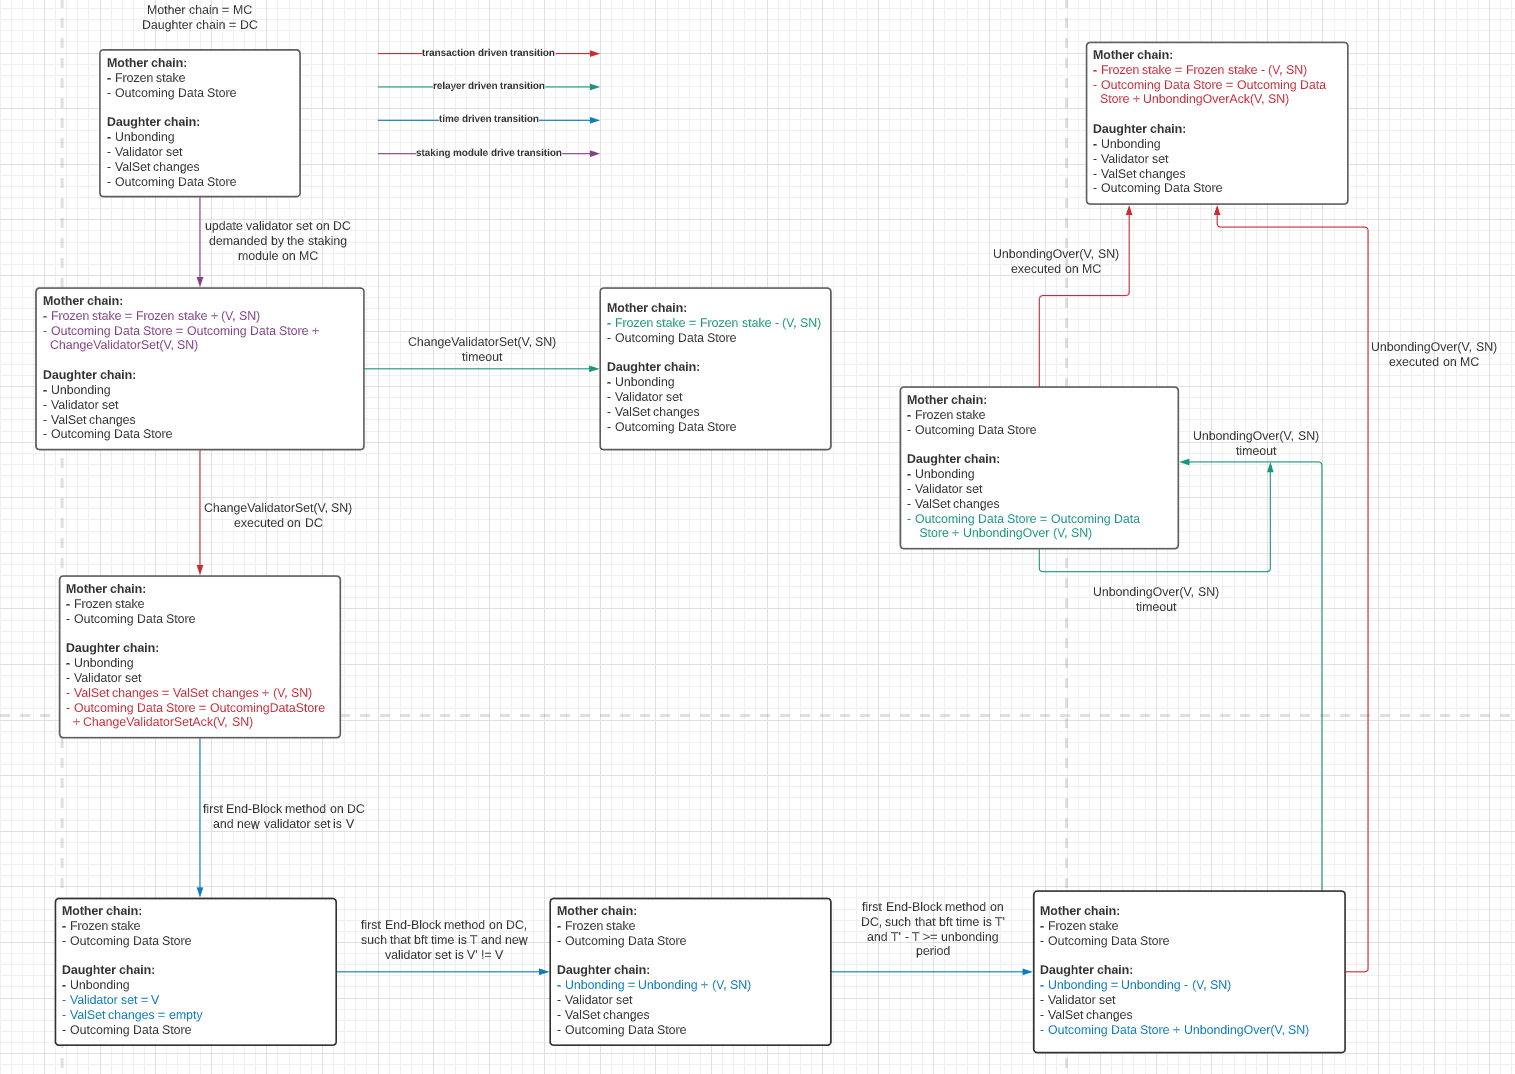
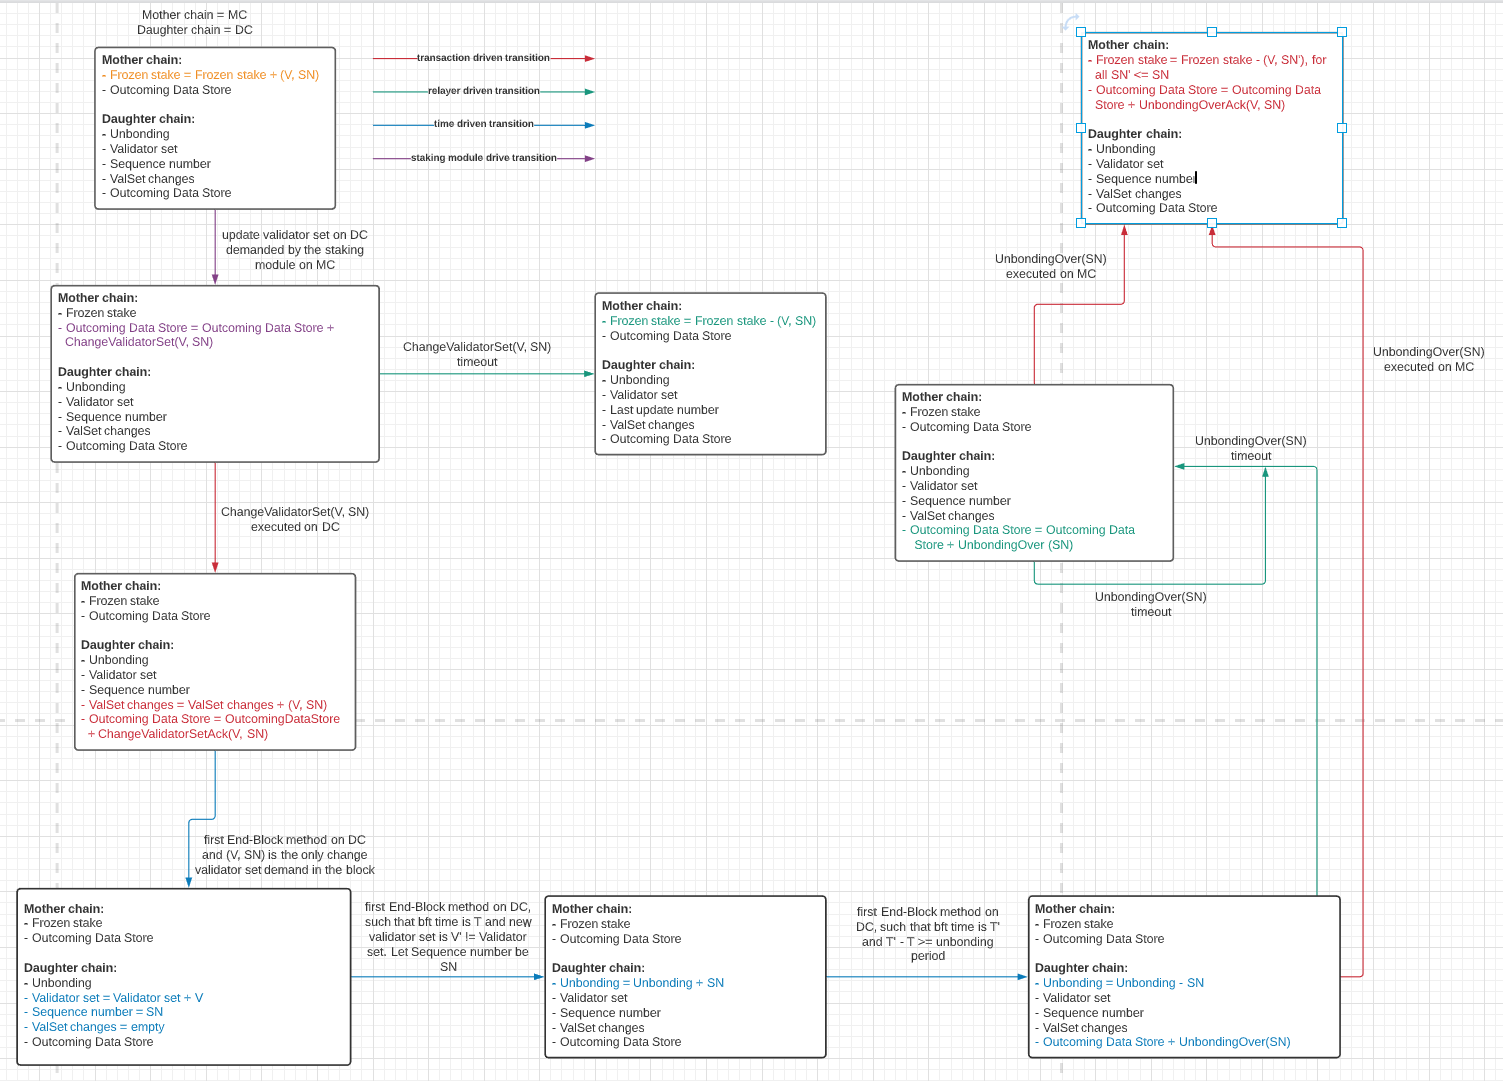
updates as an input from the staking module

diff --git a/spec/valset-update-protocol.md b/spec/valset-update-protocol.md
@@ -18,13 +18,12 @@ This subsection is devoted to defining properties that the Cross-Chain Validatio
 Recall that the parent blockchain has an ability to demand a change to the validator set of the baby chain.
 Moreover, we want to ensure the stake of validators of the baby blockchain are "frozen" at the parent chain.
 
-A change validator set demand is a tuple *(V, SN)*, where *V* represent a validator set and *SN* a sequence number of the demand.
+A change validator set demand is a tuple *(V, SN)*, where *V* represent a validator set updates and *SN* a sequence number of the demand.
 If a change validator set demand *(V', SN')* is issued after a validator set demand *(V, SN)* by the staking module of the parent blockchain, then *SN' > SN*.
 
 Hence, we aim to achieve the following properties:
-- *Liveness*: If the staking module of the parent blockchain demands a validator set change *(V, SN)* for the baby chain and this demand is successfully relayed to the baby blockchain, then the validator set of the baby blockchain is eventually set to *(V, SN* or to *(V', SN')*, where *SN' > SN*.
-- *Validator set change safety*: Suppose that the validator set of the baby blockchain is updated to a validator set *V* *n* times.
-Then, there exists a sequence *(V, SN(1)), (V, SN(2)), ..., (V, SN(n))* of change validator set demands issued by the staking module of the parent blockchain such that *SN(i) < SN(i+1)*.
+- *Liveness*: If the staking module of the parent blockchain demands a validator set change *(V, SN)* for the baby chain and this demand is successfully relayed to the baby blockchain, then the validator set of the baby blockchain reflects this demand.
+- *Validator set change safety*: Suppose that the validator set of the baby blockchain changes from *V* to *V'*. Then, there exists a sequence *seq = (V, SN(1)), (V, SN(2)), ..., (V, SN(n))*, where *n > 0*, of change validator set demands issued by the staking module of the parent blockchain such that *apply(V, seq) = V'*.
 - *Stake safety*: If a validator *v* belongs to a validator set of the baby blockchain, then the stake of *v* is frozen at the parent blockchain. Moreover, if the stake of *v* is unfrozen at the parent blockchain, the unbonding period has elapsed for *v* at the baby blockchain.
 - *Stake liveness*: If the stake of a validator *v* is bonded at the parent blockchain and the staking module of the parent blockchain demands a change to the validator set of the baby blockchain that does not contain *v*, eventually the stake of *v* is unbonded (although some stake might be slashed).
 
@@ -35,8 +34,7 @@ An IBC channel assumes two parties (the respective blockchains) involved in the 
 A relayer intermediates communication between the two blockchains. Each blockchain exposes an API comprising read, write, as well as a queue (FIFO) functionality. So there are two parts to the communication API:
 
 - a read/write store: The read/write store holds the entire state of the chain. Each module can write to this store.
-- a queue of datagrams (packets):
-Each module can pop datagrams stored in this queue and a relayer can push to this queue.
+- a queue of datagrams (packets): Each module can dequeue datagrams stored in this queue and a relayer can queue to this queue.
 
 ## Data Structures
 
@@ -53,7 +51,8 @@ We devote this section to defining the data structures used to represent the sta
 
 - Unbonding: Keeps track of validators that are currently unbonding.
 - Validator set: The validator set of the baby blockchain.
-- ValSet changes: Keeps track of all demands of the parent blockchain for a change of the validator set of the baby blockchain in a **current** block.
+- Sequence number: The sequence number of the **last** change validator set demand that influenced the current validator set of the baby blockchain.
+- ValSet changes: Keeps track of all demands of the parent blockchain for a change of the validator set of the baby blockchain in a current block.
 - Outcoming data store: "Part" of the blockchain used for storing the packets that should be relayed to the parent blockchain (same as at the parent blockchain).
 
 ### Packet data
@@ -61,13 +60,13 @@ We devote this section to defining the data structures used to represent the sta
 #### Sent by the parent blockchain
 
 - ChangeValidatorSet(validatorSet, seqNum): Packet sent by the parent blockchain to the baby blockchain to express the demand of the parent blockchain to modify the validator set of the baby blockchain.
-"New" validator set is defined in the *validatorSet* parameter, whereas the *seqNum* represents the unique identifier of the demand.
+Validator set modifications are defined in the *valSetUpdate* parameter, whereas the *seqNum* represents the unique identifier of the demand.
 
   *Remark:* There exists the acknowledgment packet for the ChangeValidatorSet packet. However, currently the acknowledgment packet does not influence any state transitions (as we introduce in the rest of the document).
 
 #### Sent by the baby blockchain
 
-- UnbondingOver(validatorSet, seqNum): Packet sent by the baby blockchain to signalize that the unbonding period has elapsed at the baby blockchain for every validator that is demanded in the *ChangeValidatorSet* packet with sequence number *seqNum*.
+- UnbondingOver(seqNums): Packet sent by the baby blockchain to signalize that the unbonding period has elapsed at the baby blockchain for every validator that is demanded in the *ChangeValidatorSet* packets with sequence numbers less than or equal to *seqNum*.
 
   *Remark:* There exists the acknowledgment packet for the UnbondingOver packet. However, currently the acknowledgment packet does not influence any state transitions (as we introduce in the rest of the document).
 
@@ -82,22 +81,22 @@ We observe state transitions that are driven by an user, driven by the relayer a
 
   - Transaction-driven state transitions: These are the state transitions that are driven by the relayer. Namely, these transitions are activated since communication between the two blockchains takes place. E.g., some packet is received via the IBC communication, a timeout has elapsed for a packet, acknowledgment for a packet is received.
 
-  - Time-driven state transitions: These transitions are activated since some time has elapsed. As we will present in the rest of the document, time-driven state transitions help us determine when the unbonding period, measured at the baby blockchain, has elapsed for a validator.
+  - Time-driven state transitions: These transitions are activated since some time has elapsed. As we will present in the rest of the document, time-driven state transitions help us determine when the unbonding period, measured at the baby blockchain, has elapsed for a validator set.
 
-  In the rest of the section, we will discuss the aforementioned state transitions in more detail.
+In the rest of the document, we will discuss the aforementioned state transitions in more detail.
 
 ## State Machine for a Single Validator Set Change demand
 
 For simplicity in presentation, in this section we consider a *single* validator set change demand, that is, we assume that this demand will be a single committed validator set change demand in a block at the parent blockchain.
 (If the relayer successfully transmits the protocol packet) this demand will result the validator set change indeed taking place at the baby blockchain.
-However, in principle multiple demands can be issued before the first of those is finished. This leads to concurrency, and intermediate validator set changes are not visible in the validator sets of the baby chain. Note, that this does not influence the (un)staking logic. We will discuss concurrency effects below.
+However, in principle multiple demands can be issued before the first of those is finished. This leads to concurrency, and intermediate validator set changes may not be visible in the validator sets of the baby chain. We will discuss concurrency effects below.
 
 We first describe the lifetime of a validator set change demand.
 First, the staking module of the parent blockchain issues this demand by initiating the sending of the packet to the baby blockchain.
 Once this packet is received by the baby blockchain, the validator set of the baby blockchain is updated to reflect the received packet and, from this point on, the "new" validator set is operating the baby blockchain.
 However, once the validator set of the baby blockchain is updated, the "old" validator set starts unbonding.
 Once the unbonding period for the validator set elapses, the *UnbondingOver* packet is sent to the parent blockchain.
-Lastly, when the *UnbondingOver* packet is received by the parent blockchain, the stake of the validators is unfrozen. 
+Lastly, when the *UnbondingOver* packet is received by the parent blockchain, the stake of the validators is unfrozen.
 
 We now present the state machine for this case.
 ![image](../images/data_flow.png)
@@ -109,8 +108,21 @@ We now present the state machine for this case.
 In this subsection we explain which functions we assume are provided by the staking module.
 
 ```golang
-// parent blockchain; used to unfreeze stake of validators associated with the change validator set demand (valSet, seqNum)
-func unfreezeStake(valSet, seqNum)
+// parent blockchain; used to unfreeze stake of validators associated with the change validator set demands (valSet, seqNum')
+// where seqNum' <= seqNum
+func unfreezeStake(seqNum)
+```
+
+- Expected precondition
+  - The change validator set demand *(valSet, seqNum)* issued by the staking module of the parent blockchain
+- Expected postcondition
+  - Stake of each validator from *valSet* associated with a sequence number *seqNum' <= seqNum* is unfrozen
+- Error condition
+  - If the precondition is violated
+
+```golang
+// parent blockchain; used to unfreeze stake of validators associated with the change validator set demands (valSet, seqNum)
+func unfreezeSingleStake(seqNum)
 ```
 
 - Expected precondition
@@ -122,7 +134,7 @@ func unfreezeStake(valSet, seqNum)
 
 ```golang
 // baby blockchain; notes that the unbonding for the specific change validator set demand started at time *time*
-func startUnbonding(valSet, seqNum, time)
+func startUnbonding(seqNum, time)
 ```
 
 - Expected precondition
@@ -143,9 +155,12 @@ func finishUnbonding(time)
 - Expected precondition
   - End-Block method is executed for the block with bft time equals to *time*
 - Expected postcondition
-  - Returns (and removes from the data structure) all validator set change demands *(V, SN)* such that *startUnbonding(V, SN, time')* is invoked, where *time - time' >= unbonding period*
+  - Returns (and removes from the data structure) all validator set change demands *(V, SN)* such that *startUnbonding(SN, time')* is invoked, where *time - time' >= unbonding period*
 - Error condition
   - If the precondition is violated
+
+We assume that the staking module of the baby chain takes care of a queue *validatorSetChangeQueue* which is used to store observed change validator set demands.
+This queue is manipulated using *sizeValidatorSetChangeQueue()* to retrieve the size of the queue, *dequeueValidatorSetChange()* and *queueValidatorSetChange(valSet, seqNum)* to dequeue and queue the *validatorSetChange* queue, respectively.
 
 ### Parent blockchain
 
@@ -157,10 +172,10 @@ This subsection will present the functions executed at the parent blockchain.
 // executed in the End-Block method; similarly to the "normal, single-blockchain" case
 func changeValidatorSet(
   babyChainId: ChainId
-  valSet: Validator[]
+  valSetUpdate: Validator[]
   seqNum: integer) {
   // create the ChangeValidatorSet packet
-  ChangeValidatorSet data = ChangeValidatorSet{valSet, seqNum}
+  ChangeValidatorSet data = ChangeValidatorSet{valSetUpdate, seqNum}
 
   // obtain the destination port of the baby blockchain
   destPort = getPort(babyChainId)
@@ -172,8 +187,8 @@ func changeValidatorSet(
 
 - Expected precondition
   - There exists a blockchain with *babyChainId* identifier
-  - All validators from *valSet* are validators at the parent blockchain
-  - Stake of each validator from *valSet* is frozen and associated with this demand (via *seqNum*)
+  - All validators from *valSetUpdate* are validators at the parent blockchain
+  - Stake of each validator from *valSetUpdate* is frozen and associated with this demand (via *seqNum*)
 - Expected postcondition
   - The packet containing information about this change validator set demand is created
 - Error condition
@@ -185,11 +200,10 @@ func onRecvPacket(packet: Packet) {
   // the packet is of UnbondingOver type
   assert(packet.type = UnbondingOver)
 
-  valSet = packet.valSet
-  seqNum = packet.seqNum
+  seqNum = packet.seqNums
 
-  // unfreeze stake of validators associated with this seqNum
-  stakingModule.unfreezeStake(valSet, seqNum)
+  // unfreeze stake of validators associated with sequence numbers <= seqNum
+  stakingModule.unfreezeStake(seqNum)
 
   // construct the default acknowledgment
   ack = defaultAck(UnbondingOver)
@@ -216,7 +230,7 @@ function onTimeoutPacket(packet: Packet) {
   seqNum = packet.seqNum
 
   // unfreeze stake of validators associated with this seqNum
-  stakingModule.unfreezeStake(valSet, seqNum)
+  stakingModule.unfreezeSingleStake(seqNum)
 }
 ```
 
@@ -235,11 +249,11 @@ func onRecvPacket(packet: Packet) {
   // the packet is of ChangeValidatorSet type
   assert(packet.type = ChangeValidatorSet)
 
-  valSet = packet.valSet
+  valSetUpdate = packet.valSetUpdate
   seqNum = packet.seqNum
 
   // inform the staking module of the new validator set change demand
-  stakingModule.queueValidatorSetChange(valSet, seqNum)
+  stakingModule.queueValidatorSetChange(valSetUpdate, seqNum)
 
   // construct the default acknowledgment
   ack = defaultAck(ChangeValidatorSet)
@@ -250,7 +264,7 @@ func onRecvPacket(packet: Packet) {
 - Expected precondition
   - The packet is of the *ChangeValidatorSet* type
 - Expected postcondition
-  - The staking module is queues the new validator set change demand
+  - The staking module queues the new validator set change demand
   - The default acknowledgment is created
 - Error condition
   - If the precondition is violated
@@ -264,16 +278,30 @@ func endBlock(block: Block) {
   // get the old validator set
   oldValSet, oldSeqNum = block.validatorSet
 
-  // start unbonding for the old validator set and all validators set specified in the current block, except for last
-  stakingModule.startUnbonding(oldValSet, oldSeqNum, time)
-  while (stakingModule.sizeValidatorSetChangeQueue() > 1) {
-    stakingModule.startUnbonding(stakingModule.dequeueValidatorSetChange(), time)
+  // get the new validator set; init to the old one
+  newValSet = oldValSet
+
+  // start unbonding for the old validator set represented by the validator set update
+  stakingModule.startUnbonding(oldSeqNum, time)
+
+  // update the validator set
+  while (stakingModule.sizeValidatorSetChangeQueue() > 0) {
+    valSetUpdate, valSetUpdateSeqNum = stakingModule.dequeueValidatorSetChange()
+
+    // update the new validator set
+    newValSet = applyValidatorUpdate(newValSet, valSetUpdate)
+
+    // remember which demands participate
+    if (stakingModule.sizeValidatorSetChangeQueue() = 0) {
+      newSeqNum = valSetUpdateSeqNum
+    }
   }
 
   // finish unbonding for mature validator sets
-  for each (valSet, seqNum in stakingModule.finishUnbonding(time)) {
+  // ordered increasingly
+  for each (seqNum in stakingModule.finishUnbondingOrdered(time)) {
     // create the UnbondingOver packet
-    UnbondingOver data = UnbondingOver{valSet, seqNum}
+    UnbondingOver data = UnbondingOver{seqNum}
 
     // obtain the destination port of the baby blockchain
     destPort = getPort(parentChainId)
@@ -282,7 +310,6 @@ func endBlock(block: Block) {
     handler.sendPacket(Packet{timeoutHeight, timeoutTimestamp, destPort, destChannel, sourcePort, sourceChannel, data}, getCapability("port"))
   }
 
-  newValSet, newSeqNum = stakingModule.dequeueValidatorSetChange()
   return newValSet, newSeqNum
 }
 ```
@@ -290,9 +317,9 @@ func endBlock(block: Block) {
 - Expected precondition
   - Every transaction from the *block* is executed
 - Expected postcondition
-  - Unbonding starts for the old validator set, as well as all validators set from the changes committed on the *block*, except for the last
+  - Unbonding starts for the old validator set
   - Unbonding finishes for all validator set that started unbonding more than *unbondingTime* before *time = block.time*. Moreover, the *UnbondingOver* packet is created for each such validator set
-  - The new validator set *valSet* is pushed to the Tendermint protocol and *valSet* belongs to the last validator set change demand committed on the *block*
+  - The new validator set *newValSet* is pushed to the Tendermint protocol and *newValSet* reflects all the change validator set demands from the *block*
 - Error condition
   - If the precondition is violated
 
@@ -304,11 +331,10 @@ function onTimeoutPacket(packet: Packet) {
   // the packet is of UbondingOver type
   assert(packet.type = UnbondingOver)
 
-  valSet = packet.valSet
   seqNum = packet.seqNum
 
   // create the UnbondingOver packet
-  UnbondingOver data = UnbondingOver{packet, seqNum}
+  UnbondingOver data = UnbondingOver{seqNum}
 
   // obtain the destination port of the baby blockchain
   destPort = getPort(parentChainId)
@@ -430,11 +456,11 @@ func onChanCloseConfirm(
 
 ## State Machine for Multiple Validator Set Change demands
 
-Note that "multiple" signalizes that more than one demand of the change validator set demand is committed in a block at the baby blockchain.
-If that happens, only the last demand takes place, i.e., only the validator set specified in the last demand becomes the validator set of the baby blockchain.
+Note that "multiple" signalizes that more than one demand of the change validator set type is committed in a block at the baby blockchain.
+If that happens, all updates take place.
+Note that some updates might not be visible, i.e., their effect might be hidden by subsequent demands.
 
-The only difference from the "single" validator set change case is that the unbonding should start for "ignored" validator set changes.
-The image below illustrates this.
+The image below illustrates this case.
 ![image](../images/data_flow_2.png)
 
 
@@ -444,21 +470,21 @@ Here we provide correctness arguments for the liveness, stake safety and stake l
 
 ### Liveness
 Suppose that the IBC communication indeed successfully relays the demand *ChangeValidatorSet(V, SN)* to the baby blockchain.
-Therefore, either the validator set of the baby blockchain is set to *V* (if the *ChangeValidatorSet(V, SN)* is the only or the last demand of this type in a block at the baby blockchain) or the validator set is changed to some set *V'*.
-If the first scenario occurs, the property is satisfied.
+Therefore, the validator set of the baby blockchain should reflect this demand.
+This indeed happens at the end of a block, since every observed demand is applied in order for the baby blockchain to calculate the new validator set.
+Hence, the property is satisfied.
 
-In order for the property to be satisfied even if the second scenario occurs, we must show that *ChangeValidatorSet(V', SN')* is demanded after *ChangeValidatorSet(V, SN)*.
-We conclude that *ChangeValidatorSet(V', SN')* is the last demand of this type in a block.
-Moreover, we know that *ChangeValidatorSet(V, SN)* is also in the same block.
-Since the IBC communication is ordered, we conclude that indeed *ChangeValidatorSet(V', SN')* is demanded after *ChangeValidatorSet(V, SN)*.
-Therefore, the property is satisfied.
+### Validator set change safety
+Suppose that the validator set of the baby blockchain changes from *V* to *V'* in two consecutive blocks.
+By construction of the protocol, we conclude that there exists a sequence of change validator set demands issued by the parent blockchain that result in *V'* when applied to *V*.
+Recursively, we conclude that this holds for any two validator sets (irrespectively of the "block distance" between them).
 
 ### Stake safety
 
 If the validator *v* belong to the validator set of the baby blockchain, we know that a *ChangeValidatorSet(V, SN)* is demanded by the parent blockchain, where *v in V*.
 Since the stake is frozen at the moment of sending this demand, the first statement of the property is satisfied.
 
-A stake of a validator *v* is unfrozen at the parent blockchain upon a receiption of the *UnbondingOver* packet.
+A stake of a validator *v* is unfrozen at the parent blockchain upon a reception of the *UnbondingOver* packet.
 Since this packet is sent by the baby blockchain only after the unbonding period has elapsed, the second claim of the property holds.
 
 ### Stake liveness
